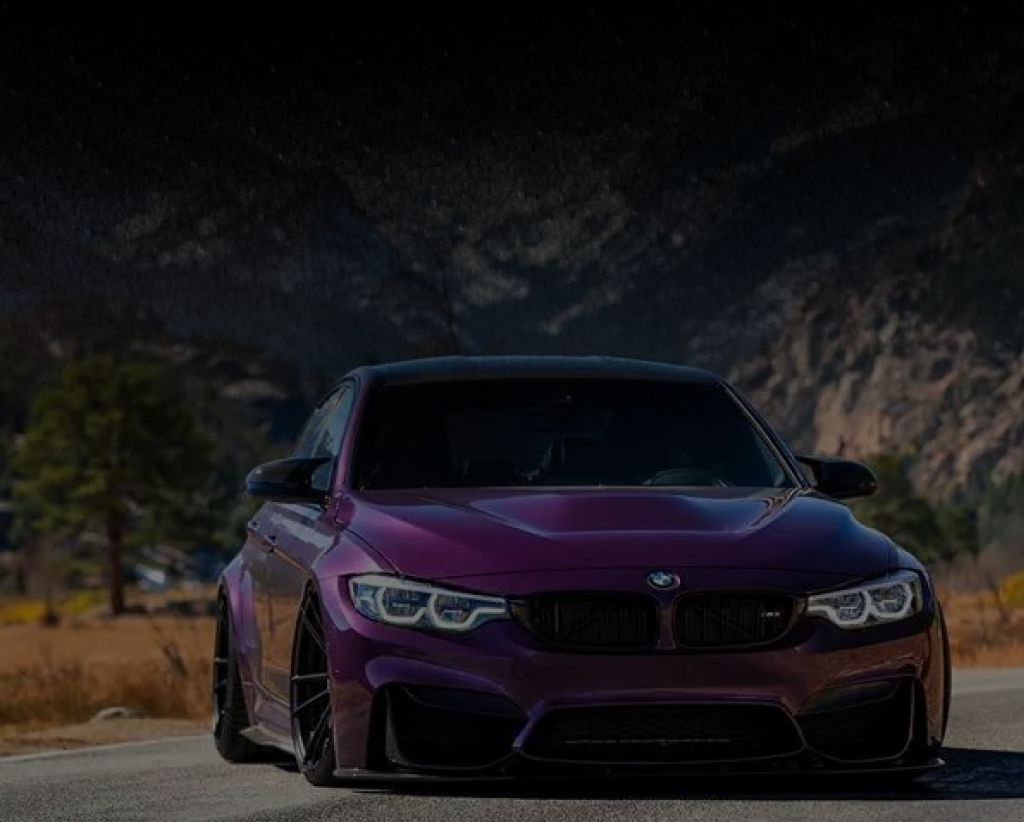
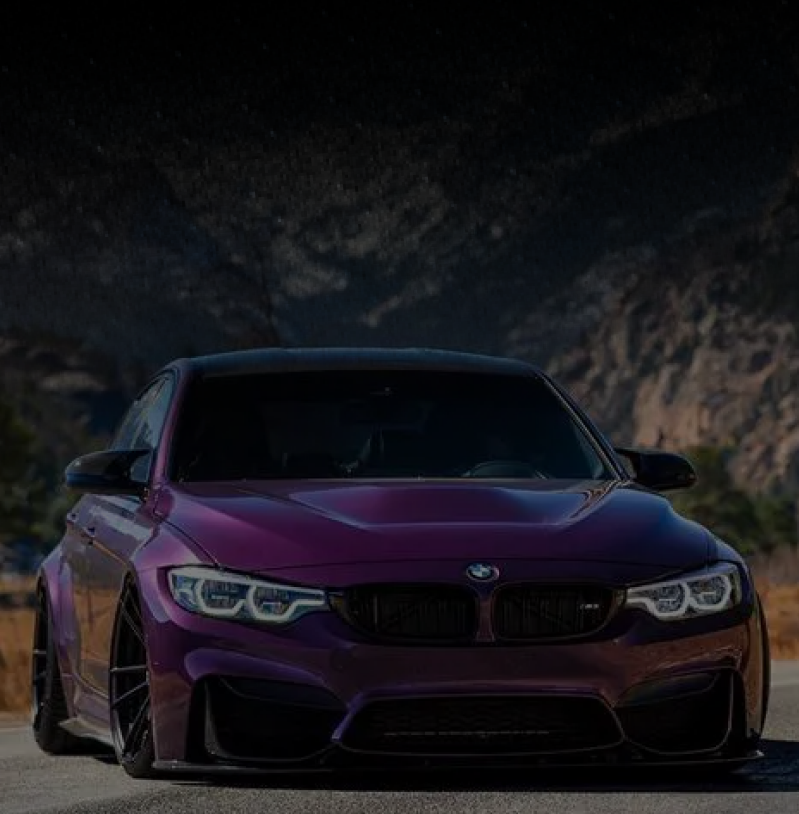
problema con el fondo de index en responsive

diff --git a/css/styles.css b/css/styles.css
@@ -1,3 +1,5 @@
+
+
 @import url('https://fonts.googleapis.com/css2?family=Orbitron:wght@400..900&display=swap');
 /*font-family:"Orbitron", sans-serif;*/
 @import url('https://fonts.googleapis.com/css2?family=Encode+Sans+SC:wdth,wght@87.5,100..900&family=Orbitron&display=swap');
@@ -13,12 +15,13 @@ header{
     justify-content: space-between;
     width: 100%;
     height: 1px;
+
 }
 
 header img{
     width: 90px;
     height: 80px;
-    margin-right: 5px;
+    margin-right: 1px;
 
 }
 
@@ -48,7 +51,7 @@ a{
     font-family: "Encode Sans SC", sans-serif;
     font-size: 8px;
     text-align: right;
-    margin-left: 80px;
+    margin-left: 50px;
     
 }
 .contacto-nav div{
@@ -73,20 +76,23 @@ a{
     text-align: center;
     display:flex;
     flex-direction: column;
+    height: 1700px;
 }
 
 /*fondo principal index*/
 .Ccristales h1{background-image: url("../assest/imagenes/Bmw-inico.png");
-    background-size: cover;
-    height: 1000px;
-    width: 100%;
+    background-position: center;
+    background-size: cover;    
     background-repeat: no-repeat;
-    justify-content: center;
+    width: 100%;
+    height: 100%;
+    align-items: center;
     text-align: center;
     padding-top: 35%;
 }
 
-.mini-servicios{ color: white;
+.mini-servicios{ width: 90%;
+    color: white;
     font-family:"Orbitron", sans-serif;
     display: flex;
     flex-direction: row;
@@ -157,12 +163,19 @@ a{
 
 
 /*segundo fondo del index*/
-.fondo2-index {background-image: url("../assest/imagenes/Bmw-2inicio.png");
-    background-size: cover;
+.fondo2-index {
     height: 1400px;
-    width: 100%;
     background-repeat: no-repeat;
-    position: sticky;
+    display:flex;
+    flex-direction: column;
+    height: 1800px;
+    width: 100%;
+}
+.fondo2-index div{background-image: url("../assest/imagenes/Bmw-2inicio.png");
+    background-size: cover;
+    width: 100%;
+    height: 100%;
+    background-repeat: no-repeat;
 }
 
 
@@ -519,3 +532,43 @@ footer{
     height: 60px;
     background-color: white; 
 }
+
+
+
+
+
+
+
+
+
+
+
+
+
+
+
+@media (max-width:1245px){
+    header {
+        width: 100%;
+    }
+    .contacto-nav{
+        font-size: 7px;
+    }
+    
+    .Ccristales{
+        width: 90%;
+        height: 1000px;
+    }
+    .Ccristales h1{width: 100%;
+        height: 100%;
+
+    }
+    .fondo2-index{
+        width: 100%;
+    }
+    .fondo2-index div{
+        width: 1219px;
+    }
+}
+
+

diff --git a/index.html b/index.html
@@ -36,7 +36,7 @@
     <main>
         <section >
             <div class="Ccristales">
-                <h1>Ccristales</h1>          
+                <h1>Ccristales</h1>        
             </div>
             <div class="mini-servicios">
                 <div>
@@ -44,7 +44,7 @@
                     <h3>Parabrisas</h3>
                 </div>
                 <div>
-                    <p>Todo tipo de Mantenimiento para su vehiculo </p>
+                    <p>Todo tipo de Mantenimiento para su vehiculo</p>
                     <h3>Parabrisas</h3>
                 </div>
                 <div>
@@ -84,8 +84,11 @@
             <img src="./assest/logos/envio.png" alt=""></main>
         </section>
         <section class="fondo2-index">
-            <h2 class="sub-h2">Polarizados</h2>
-            <p class="sub-left">Nanoceramicos, nanocarono, antivandalismo, comencianales </p>
+            <div>
+                <h2 class="sub-h2">Polarizados</h2>
+                <p class="sub-left">Nanoceramicos, nanocarono, antivandalismo, comencianales </p>
+            </div>
+
         </section>
         <section class="ubicacion-index">
             <h3 class="sub-h2">Donde encontrarnos</h3>
